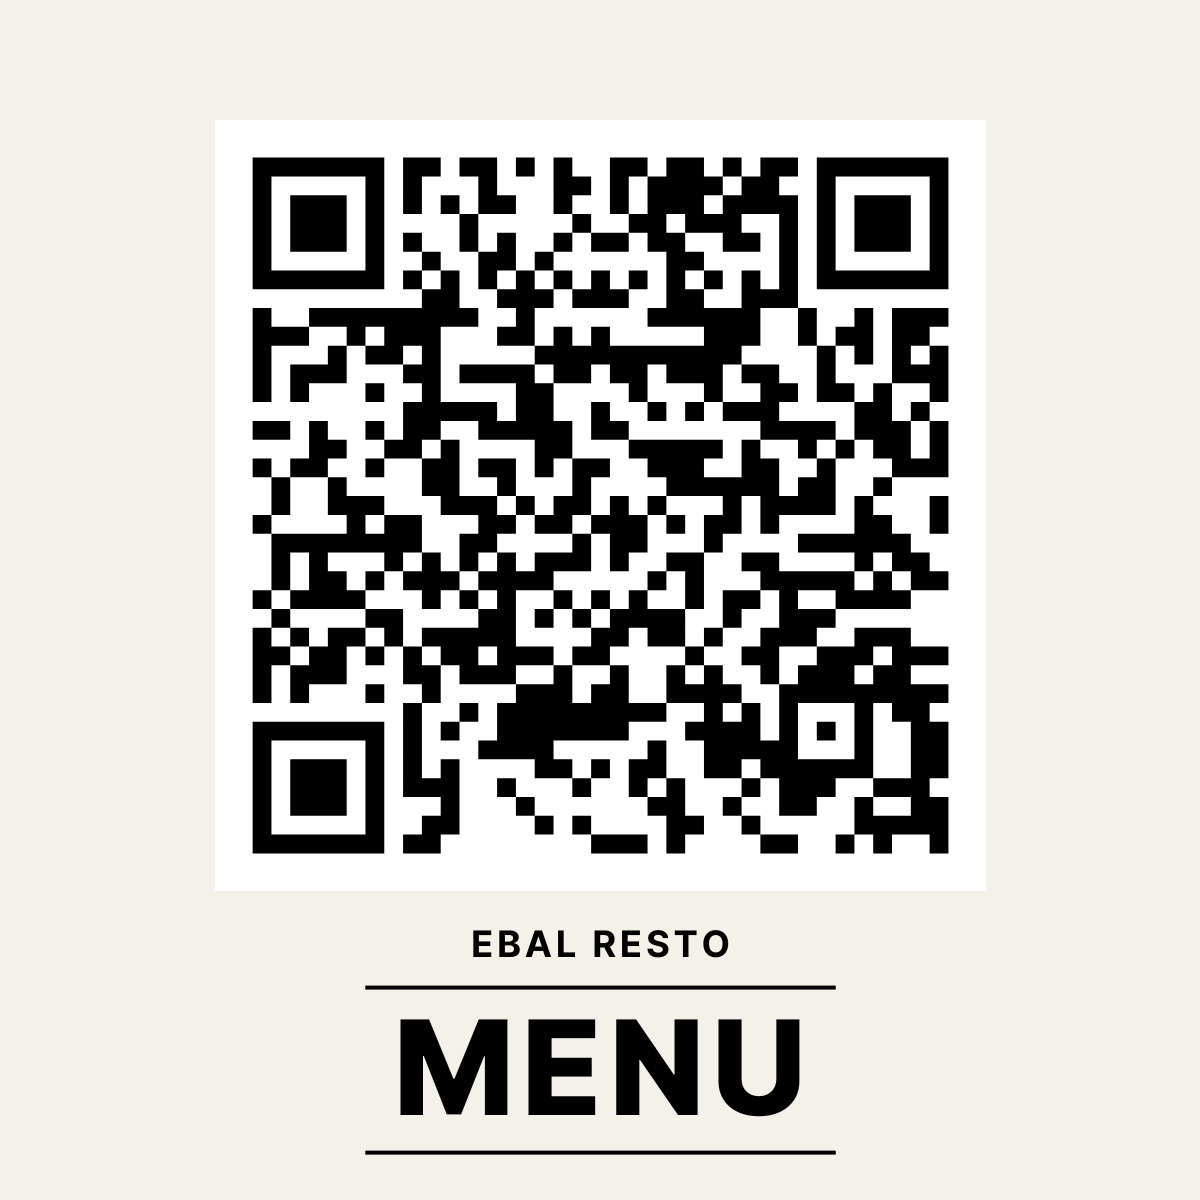
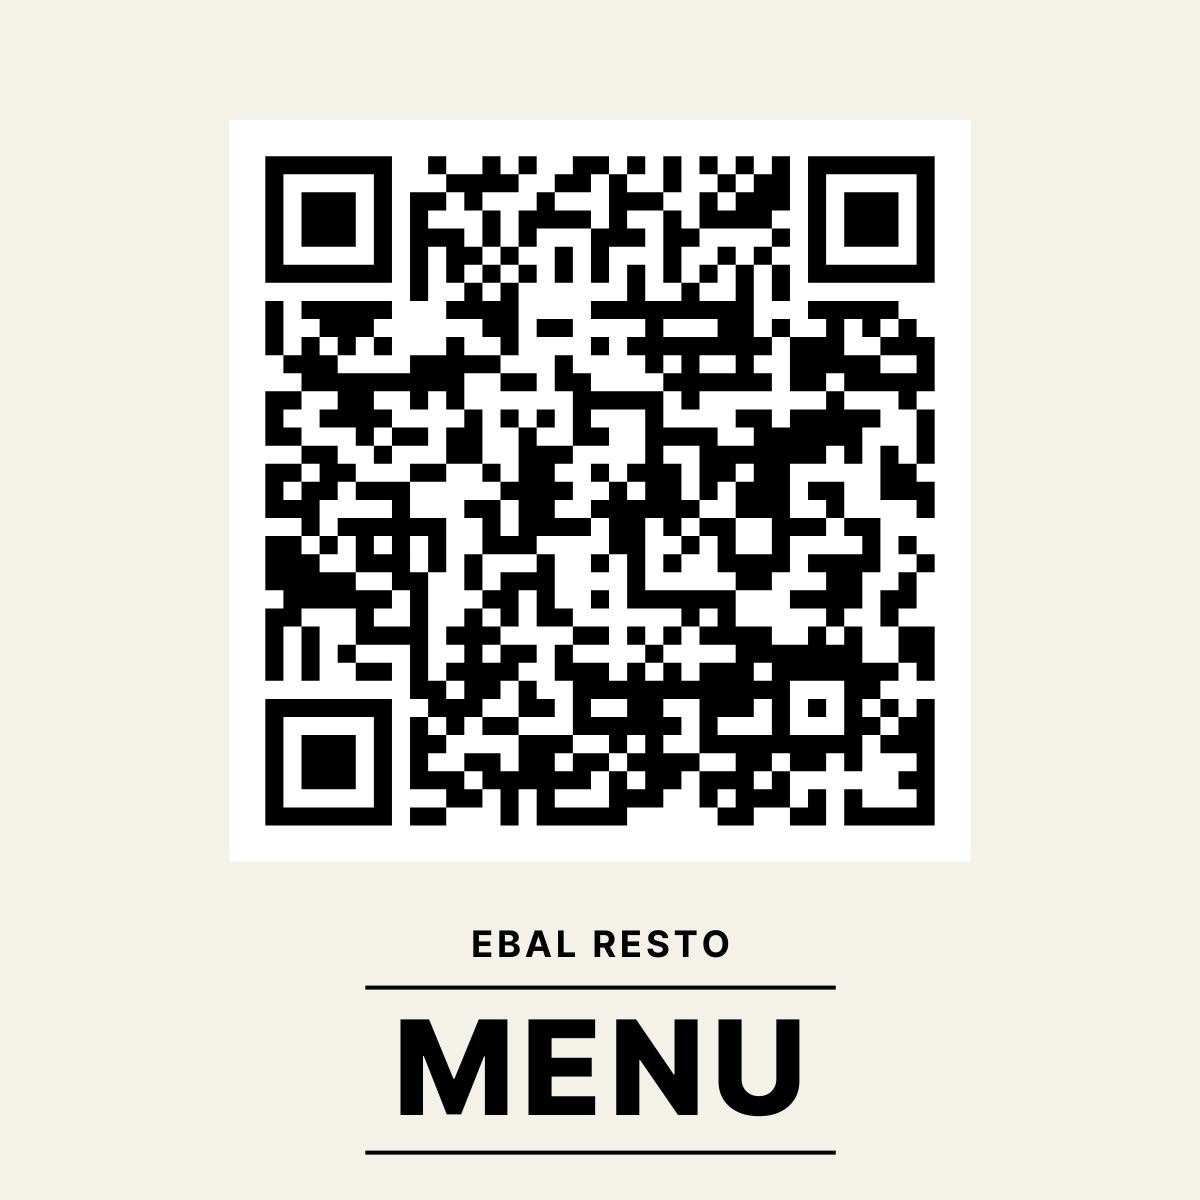
Sesion Final

Changed region(s): [[0.185, 0.1233, 0.8017, 0.7092]]

diff --git a/app/api/restaurant-data/route.ts b/app/api/restaurant-data/route.ts
@@ -5,51 +5,75 @@ import path from "path"
 // Datos de respaldo en caso de error
 const BACKUP_DATA = {
   "nombre": "EBAL Restaurant",
-  "descripcion": "Restaurante con variedad de platos principales, postres y bebidas. Especializado en cocina internacional y sabores únicos.",
+  "descripcion": "Restaurante con variedad de platos principales, entrantes, postres y bebidas. Especializado en cocina internacional y sabores únicos.",
   "horario": "Abierto todos los días de 12:00 pm - 8:00 pm",
   "ubicacion": "123 Anywhere St., Any City, ST 12345",
   "telefono": "+123-456-7890",
   "redes_sociales": "@ebalresto",
   "menu": [
     {
-      "nombre": "Platos principales",
+      "nombre": "Entrantes",
       "platos": [
         {
-          "nombre": "Pollo a la Piccata",
-          "descripcion": "Pechugas de pollo de corral salteadas en salsa de vino blanco seco, jugo de limón natural y alcaparras encurtidas. Servido con puré de patatas al ajo y espárragos verdes al vapor.",
-          "precio": 18.50,
+          "nombre": "Tosta",
+          "descripcion": "Rebanada de pan rústico de masa madre, tostado hasta quedar crujiente, cubierto con tomates cherry en dados, ajo finamente picado, albahaca fresca y un toque de aceite de oliva virgen extra. Se adereza con sal marina y pimienta negra recién molida.",
+          "precio": 5.00,
           "alergenos": [
-            "Sulfitos: presente en el vino blanco",
-            "Lácteos: mantequilla en la salsa",
-            "Puede contener trazas de frutos secos en el puré de patatas"
+            "Gluten (presente en el pan)",
+            "Puede contener trazas de frutos secos"
           ]
         },
         {
-          "nombre": "Salmón",
-          "descripcion": "Filete de salmón fresco sazonado con sal y pimienta, cocinado a la parrilla y servido con salsa de mantequilla de limón. Acompañado de verduras asadas (pimientos, calabacín, berenjena) y pilaf de arroz.",
-          "precio": 22.00,
+          "nombre": "Queso",
+          "descripcion": "Pequeños bocados de queso de cabra cremoso, envueltos en una fina capa de masa filo horneada hasta quedar dorada y crujiente. Se sirven con un toque de miel de romero y nueces caramelizadas.",
+          "precio": 6.50,
           "alergenos": [
-            "Pescado: salmón",
-            "Lácteos: mantequilla en la salsa",
-            "Puede contener trazas de gluten en el arroz pilaf"
+            "Lácteos (queso de cabra)",
+            "Gluten (masa filo)",
+            "Frutos secos (nueces caramelizadas)"
+          ]
+        },
+        {
+          "nombre": "Gambas",
+          "descripcion": "Gambas frescas, peladas y salteadas en una mezcla de ajo picado, jugo de limón natural y mantequilla. Se sirven con pan crujiente para mojar en la salsa.",
+          "precio": 8.00,
+          "alergenos": [
+            "Mariscos (gambas)",
+            "Lácteos (mantequilla)",
+            "Gluten (pan de acompañamiento)"
+          ]
+        }
+      ]
+    },
+    {
+      "nombre": "Platos principales",
+      "platos": [
+        {
+          "nombre": "Salmón",
+          "descripcion": "Filete de salmón fresco, sazonado con sal y pimienta, cocinado a la parrilla hasta obtener un dorado perfecto. Se sirve con salsa de mantequilla de limón, verduras asadas (pimientos, calabacín y berenjena) y arroz aromático infusionado con hierbas.",
+          "precio": 12.00,
+          "alergenos": [
+            "Pescado (salmón)",
+            "Lácteos (mantequilla en la salsa)",
+            "Puede contener trazas de gluten en el arroz"
           ]
         },
         {
           "nombre": "Solomillo",
-          "descripcion": "Solomillo de ternera de primera calidad, marinado con hierbas frescas y especias, cocinado a la parrilla y servido con chutney de manzana dulce y ácida. Incluye boniato asado y judías verdes al vapor.",
-          "precio": 28.00,
+          "descripcion": "Solomillo de ternera de primera calidad, marinado con una mezcla de especias y hierbas frescas, cocinado a la parrilla y servido con compota de manzana dulce y ácida. Acompañado de boniato asado y judías verdes al vapor.",
+          "precio": 14.00,
           "alergenos": [
             "No contiene alérgenos principales",
-            "Puede contener trazas de sulfitos en el chutney de manzana"
+            "Puede contener trazas de sulfitos en la compota de manzana"
           ]
         },
         {
-          "nombre": "Risotto",
-          "descripcion": "Arroz Arborio cocinado lentamente con caldo de verduras, champiñones laminados y cebolla caramelizada. Enriquecido con queso parmesano y mantequilla, coronado con perejil fresco.",
+          "nombre": "Paella",
+          "descripcion": "Versión tradicional elaborada con arroz de grano corto, pollo, conejo, judía verde (bajoqueta), garrofón, tomate, aceite de oliva virgen extra y caldo de ave. Sazonada con pimentón, azafrán y romero, cocinada a fuego lento en paellera hasta obtener el característico 'socarrat'.",
           "precio": 16.50,
           "alergenos": [
-            "Lácteos: queso parmesano y mantequilla",
-            "Puede contener trazas de gluten si se usa caldo comercial"
+            "Puede contener trazas de gluten en el caldo comercial",
+            "Sulfitos en el vino usado para el sofrito"
           ]
         }
       ]
@@ -59,41 +83,31 @@ const BACKUP_DATA = {
       "platos": [
         {
           "nombre": "Volcán de Chocolate",
-          "descripcion": "Bizcocho de chocolate con centro fundido de chocolate caliente, elaborado con cacao puro, mantequilla, huevos y azúcar. Textura crujiente por fuera y cremosa por dentro.",
-          "precio": 7.00,
+          "descripcion": "Bizcocho de chocolate con un centro fundido de chocolate caliente, elaborado con cacao puro, mantequilla, huevos frescos y azúcar. Se hornea hasta lograr una textura crujiente por fuera y cremosa por dentro.",
+          "precio": 5.00,
           "alergenos": [
-            "Gluten: harina en la masa",
-            "Lácteos: mantequilla",
-            "Huevos: presentes en la preparación"
+            "Gluten (harina en la masa)",
+            "Lácteos (mantequilla)",
+            "Huevos"
           ]
         },
         {
           "nombre": "Crema Catalana",
-          "descripcion": "Postre tradicional a base de crema pastelera aromatizada con canela y cítricos, cubierta con una fina capa de azúcar caramelizado.",
+          "descripcion": "Postre tradicional a base de crema pastelera aromatizada con canela y piel de cítricos, cubierta con una fina capa de azúcar caramelizado mediante soplete.",
           "precio": 6.50,
           "alergenos": [
-            "Lácteos: leche y nata",
-            "Huevos: presentes en la crema"
+            "Lácteos (leche y nata)",
+            "Huevos"
           ]
         },
         {
-          "nombre": "Tiramisú",
-          "descripcion": "Postre italiano con capas de bizcochos de soletilla empapados en café expreso y crema de mascarpone, decorado con cacao en polvo.",
-          "precio": 8.00,
+          "nombre": "Tarta de Frutos Rojos",
+          "descripcion": "Tarta cremosa de frutos rojos horneada con una base de galleta triturada y un toque de vainilla.",
+          "precio": 5.50,
           "alergenos": [
-            "Gluten: bizcochos de soletilla",
-            "Lácteos: queso mascarpone y nata",
-            "Huevos: en la crema de mascarpone"
-          ]
-        },
-        {
-          "nombre": "Tarta de Queso",
-          "descripcion": "Tarta cremosa horneada con una base de galleta triturada, queso crema, nata, mantequilla y un toque de vainilla. Puede llevar cobertura de frutos rojos.",
-          "precio": 7.50,
-          "alergenos": [
-            "Gluten: base de galleta",
-            "Lácteos: queso crema, nata y mantequilla",
-            "Huevos: en la mezcla de queso"
+            "Gluten (base de galleta)",
+            "Lácteos (queso crema, nata y mantequilla)",
+            "Huevos"
           ]
         }
       ]
@@ -103,7 +117,7 @@ const BACKUP_DATA = {
       "platos": [
         {
           "nombre": "Café",
-          "descripcion": "Espresso, cortado, con leche o americano. Preparado con granos de café de origen seleccionado.",
+          "descripcion": "Preparado con granos de café de origen seleccionado.",
           "precio": 2.00,
           "alergenos": [
             "No contiene alérgenos"
@@ -111,16 +125,24 @@ const BACKUP_DATA = {
         },
         {
           "nombre": "Coca-Cola",
-          "descripcion": "Refrescos de cola, limón, naranja y agua con gas.",
+          "descripcion": "Bebida gaseosa de cola.",
           "precio": 3.00,
           "alergenos": [
             "Puede contener sulfitos en algunas variedades"
           ]
         },
         {
-          "nombre": "Jugo natural",
-          "descripcion": "Zumo recién exprimido de naranja, manzana o zanahoria.",
-          "precio": 4.00,
+          "nombre": "Cerveza",
+          "descripcion": "Cerveza.",
+          "precio": 3.00,
+          "alergenos": [
+            "Gluten (presente en la cebada y el trigo en algunas variedades)"
+          ]
+        },
+        {
+          "nombre": "Agua",
+          "descripcion": "Agua mineralizada, fresca o al natural.",
+          "precio": 3.00,
           "alergenos": [
             "No contiene alérgenos"
           ]
